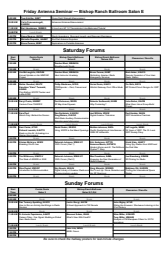
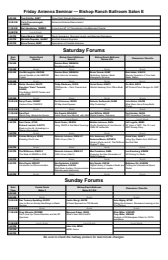
updated following rescheduling for elecraft forum in studio E

Changed region(s): [[0.0298, 0.4308, 0.9524, 0.9231]]

diff --git a/README.md b/README.md
@@ -15,7 +15,14 @@ within about 5 minutes (GitHub's CDN cache) — no app-store release needed.
 - Speaker `photoUri` may be a full URL; photos in `photos/` are served at
   `https://raw.githubusercontent.com/anton1s/pacificon-data/main/photos/<file>`.
 - Speaker photos: drop `photos/<speaker id>.jpg` (or `.png`) here and the app
-  picks it up automatically for speakers without a bundled photo.
+  picks it up automatically for speakers without a bundled photo. The speaker
+  id is the lowercased callsign (`wa6hhq.png`), or the name slug for an
+  unlicensed presenter — a file named anything else is simply never matched.
+- **Size speaker photos 56 x 56, square.** That covers every display context
+  the app puts them in without scaling artefacts. The existing files are
+  inconsistent — three are 85 px wide and portrait, others range up to 411 px —
+  so treat 56 x 56 as the target for anything added from here on, and as what
+  to normalise the older ones to when someone has time.
 - `rooms.json`: room list plus map hotspots. `mapBounds` is `{x, y, width, height}`
   as fractions (0–1) of the floor-plan width/height (or an array of them);
   keep room `id`s stable — sessions reference them.
